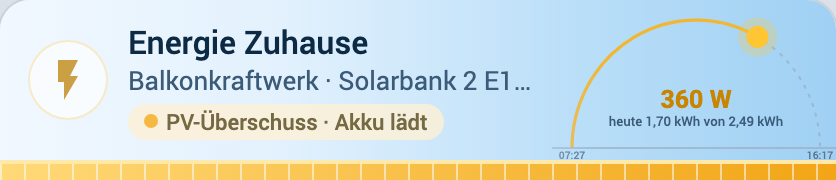
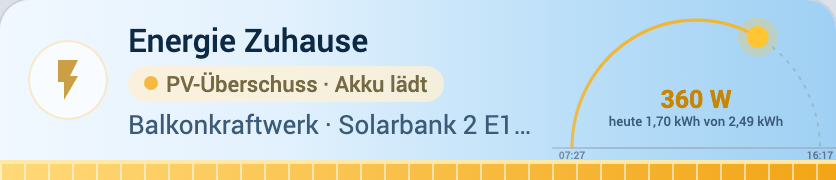
0.5.1: status pill always on the second line of the header

Changed region(s): [[0.1555, 0.3611, 0.6531, 0.7778], [0.1555, 0.1389, 0.4665, 0.3333]]

diff --git a/src/banner.js b/src/banner.js
@@ -250,7 +250,7 @@ export function sceneSVG(d) {
 }
 
 /**
- * The banner: badge, title with the status pill, subtitle, the scene and the ground strip. `button` is the open
+ * The banner: badge, title, the status pill on its own line under it, subtitle, the scene and the ground strip. `button` is the open
  * (mini card) or close (dialog) button, drawn as a frosted round button top right.
  */
 export function bannerHTML({ night, logo, color, name, sub, pill, ground, scene, button }) {
@@ -259,7 +259,8 @@ export function bannerHTML({ night, logo, color, name, sub, pill, ground, scene,
     <div class="head">
       <div class="logo" style="--c:${color}">${logo}</div>
       <div class="titles">
-        <div class="trow"><div class="name" title="${esc(name)}">${esc(name)}</div>${pill}</div>
+        <div class="name" title="${esc(name)}">${esc(name)}</div>
+        ${pill}
         ${sub ? `<div class="sub" title="${esc(sub)}">${esc(sub)}</div>` : ""}
       </div>
     </div>
@@ -269,19 +270,16 @@ export function bannerHTML({ night, logo, color, name, sub, pill, ground, scene,
 }
 
 /**
- * The status pill in the banner: right after the title when the title and the whole pill fit on that row, else on its
- * own line under the subtitle; when even that runs into the ground strip, its dot alone. Measured after each render.
+ * The status pill always sits on the second line, under the title, so it never jumps between the title row and a line
+ * of its own with the length of the title or the status text. A text wider than the column ends in an ellipsis; in a
+ * column too narrow for a few letters the dot alone. Measured after each render.
  */
 export function fitPill(root) {
   for (const t of root?.querySelectorAll?.(".banner .titles") || []) {
-    t.classList.remove("below", "dotonly");
-    const name = t.querySelector(".name");
+    t.classList.remove("dotonly");
     const pill = t.querySelector(".pill");
-    if (!name || !pill || !t.clientWidth) continue;
-    if (name.scrollWidth + 8 + pill.scrollWidth <= t.clientWidth + 0.5) continue;
-    t.classList.add("below");
-    const floor = t.closest(".banner").getBoundingClientRect().bottom - 10 + 0.5;
-    if (pill.getBoundingClientRect().bottom > floor) t.classList.add("dotonly");
+    if (!pill || !t.clientWidth) continue;
+    if (t.clientWidth < 80) t.classList.add("dotonly");
   }
 }
 
@@ -313,14 +311,11 @@ ha-card > .sec > .banner, ha-card > .banner { margin: -16px -16px 0; }
 .banner .logo .icon { width: 24px; height: 24px; }
 .banner.night .logo { background: rgba(255,255,255,.12); box-shadow: inset 0 0 0 1px rgba(255,255,255,.14); color: color-mix(in srgb, var(--c) 75%, #fff); }
 .banner .titles { flex: 1 1 0; min-width: 0; display: flex; flex-direction: column; justify-content: center; align-self: stretch; }
-.banner .trow { display: flex; align-items: center; gap: 8px; min-width: 0; }
-.banner .name { flex: 0 1 auto; min-width: 0; font-size: 16px; font-weight: 500; white-space: nowrap; overflow: hidden; text-overflow: ellipsis; }
+.banner .name { flex: none; min-width: 0; font-size: 16px; font-weight: 500; white-space: nowrap; overflow: hidden; text-overflow: ellipsis; }
 .banner .sub { font-size: 13px; color: var(--sky-muted); white-space: nowrap; overflow: hidden; text-overflow: ellipsis; }
-.banner .pill { flex: none; align-self: center; margin: 0; max-width: 100%; padding: 1px 8px; font-size: 11px; line-height: 16px; gap: 4px;
+.banner .pill { flex: none; align-self: flex-start; margin: 3px 0 2px; max-width: 100%; padding: 1px 8px; font-size: 11px; line-height: 16px; gap: 4px;
                 background: color-mix(in srgb, var(--c) 18%, rgba(255,255,255,.78)); color: color-mix(in srgb, var(--c) 45%, #0d2a45); }
 .banner.night .pill { background: color-mix(in srgb, var(--c) 30%, rgba(8,18,38,.55)); color: color-mix(in srgb, var(--c) 35%, #fff); }
-.banner .titles.below .trow { display: contents; }
-.banner .titles.below .pill { order: 9; align-self: flex-start; margin-top: 3px; }
 .banner .titles.dotonly .pill { padding: 4px; } .banner .titles.dotonly .pill > span:last-child { display: none; }
 .banner .zoom { position: absolute; z-index: 2; top: 5px; right: 5px; margin: 0; width: 24px; height: 24px; border-radius: 50%; color: #33506b;
                 background: rgba(255,255,255,.55); box-shadow: inset 0 0 0 1px rgba(255,255,255,.7); -webkit-backdrop-filter: blur(4px); backdrop-filter: blur(4px); }

diff --git a/CHANGELOG.md b/CHANGELOG.md
@@ -1,5 +1,12 @@
 # Changelog
 
+## 0.5.1 (2026-11-19)
+
+- Illustrated header: the status pill always sits on the second line, under the title and above the subtitle. It used to
+  follow the title and move to a line of its own when they did not fit together, so with a long title it jumped
+  between the two places as the status text changed. A long title or status now ends in an ellipsis; only a very narrow
+  card shows the dot alone.
+
 ## 0.5.0 (2026-11-19)
 
 - House scene: two houses to choose from with `house_model`: `balcony`, the house with balconies (default, as in
